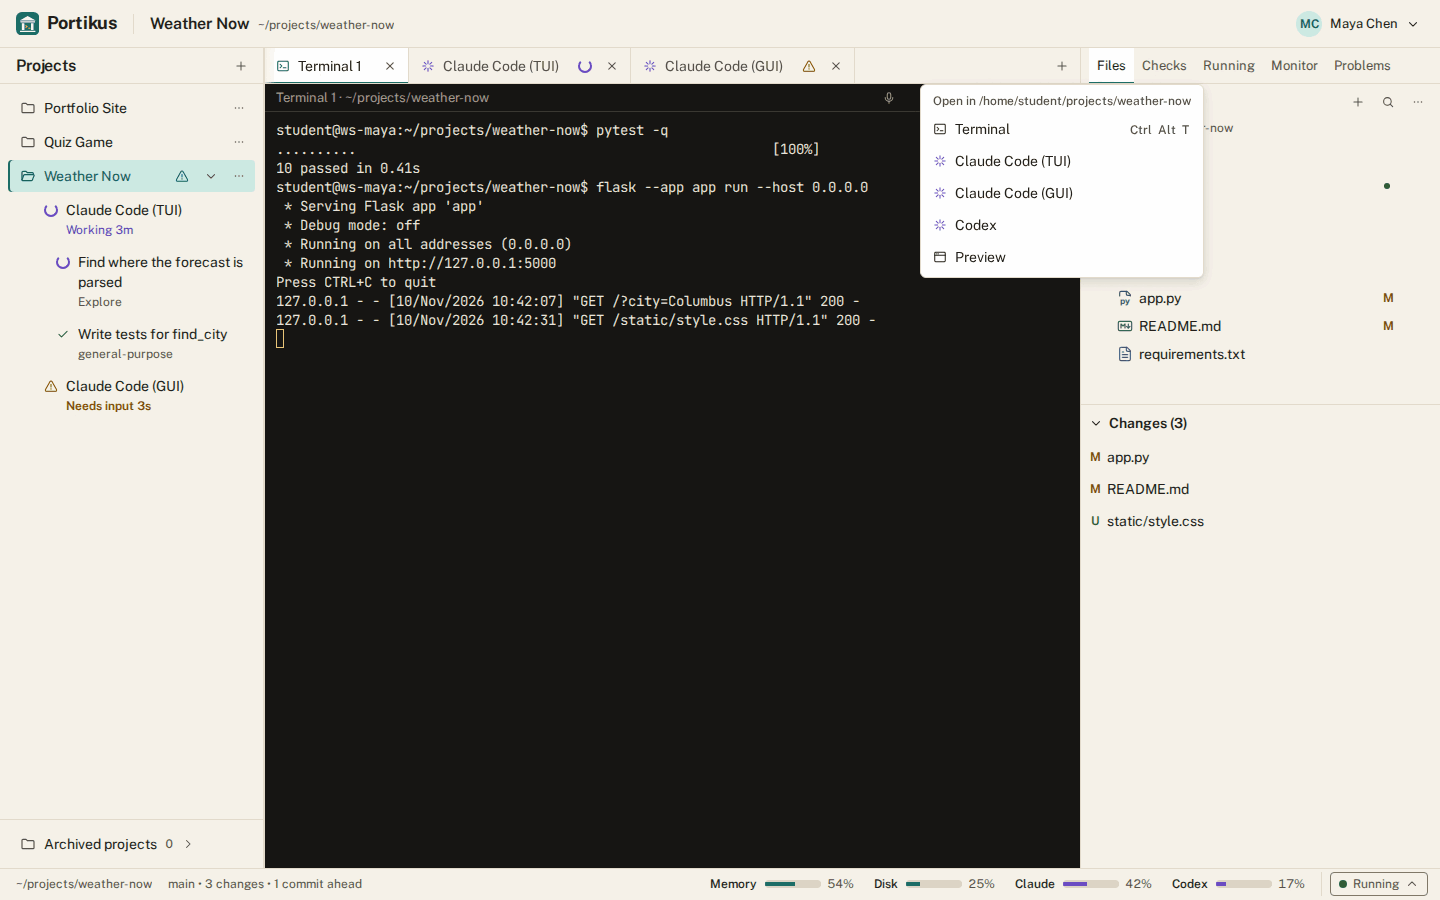
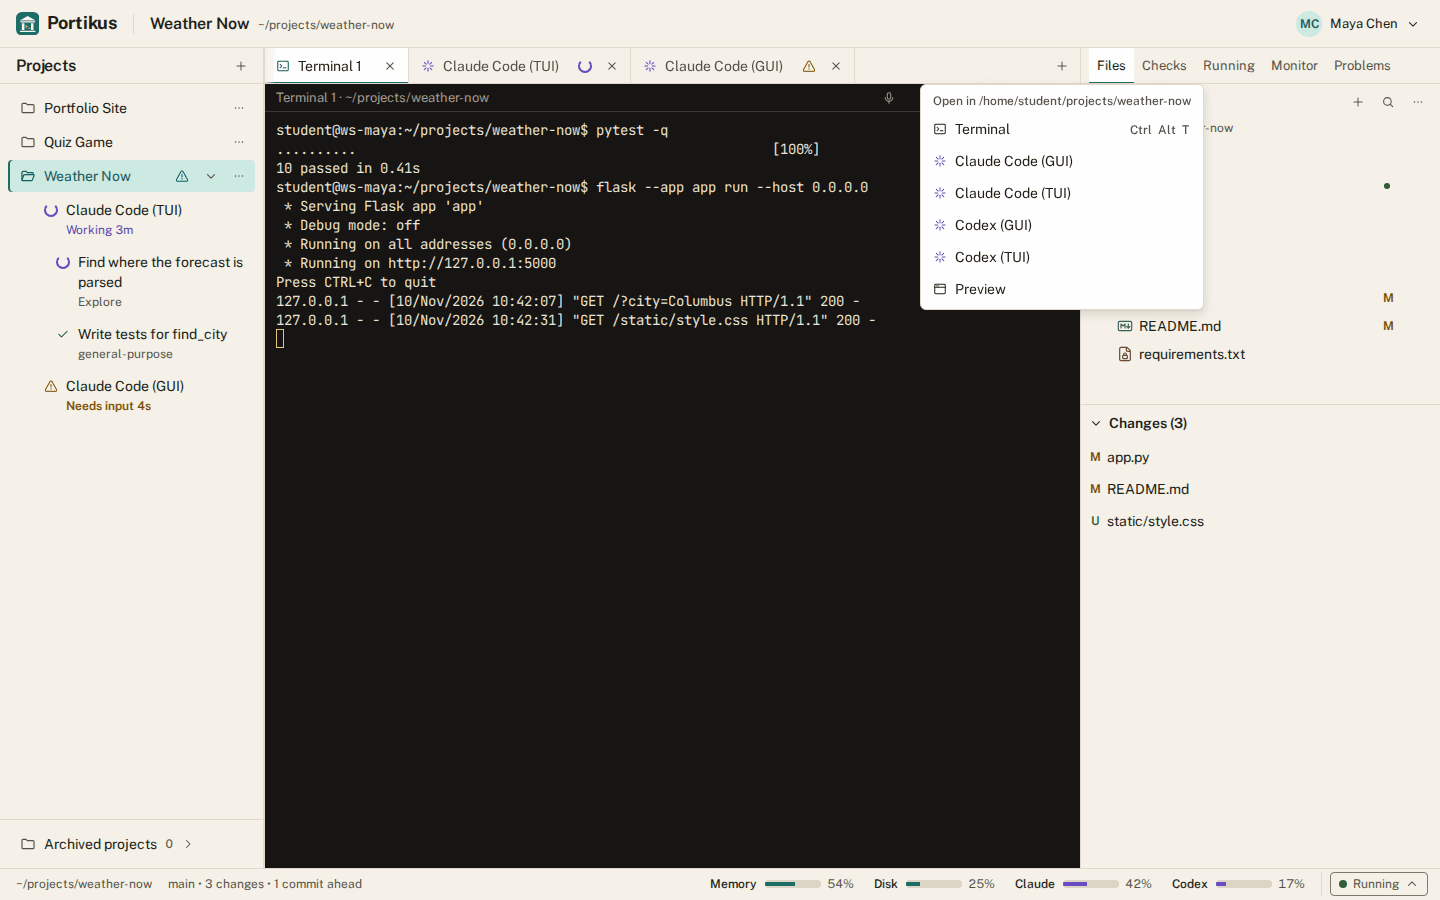
Epic 66 fold: a switch makes the agent-session recovery point; retake the New tab menu image with six choices

Changed region(s): [[0.625, 0.28, 0.8438, 0.3422], [0.7188, 0.1556, 0.75, 0.2178]]

diff --git a/docs/SPEC.md b/docs/SPEC.md
@@ -1414,7 +1414,7 @@ Added by Epic 66: skills, MCP and plugins for both agents. The student's own ski
 
 Added by Epic 66: subagents. Codex's collaboration tools draw as rows like Claude's Agent rows, and the subagent panel follows the child thread: it replays it, then follows its events live, keyed by the child thread id. The left pane's rows come from Codex's hooks (section 10.8), so they appear for Codex terminal and chat tabs alike.
 
-Added by Epic 66: switching agents in a chat. Choosing the other agent in the Agent picker swaps it in place after a warning, as a model change does ("Codex starts fresh with this conversation as context; the cache is lost"); an empty chat swaps with no warning, by replacing the tab. The swap is a handoff, because each agent keeps its own history, and the transcript shows a divider where it happened, kept on reattach and reload; the handoff text itself is hidden on replay. The browser asks the API (`PATCH` of the terminal's agent), never the chat socket: the relay drops an `agent.switch` message from a browser. The API calls the workspace agent, which asks the host to prepare the swap and then restarts the chat process in the same tmux session (`respawn-pane`) with the new agent's driver and only the new agent's institutional key (sections 10.6 and 24); the old key is removed from the session environment. A swap is refused while a reply, a card or a `!` command is running. From Claude to Codex, the earlier messages go into a new Codex thread through `thread/inject_items`. To Claude, they go in as text with the next prompt, and Claude resumes its own session whenever the tab has one, even in a chat that began on Codex, and then receives only the turns since it last spoke. Tool calls pass as a one-line summary and their output is never passed on. The oldest turns are dropped when the handoff would not fit half of the new agent's context window (200k tokens when the window is not yet known); the warning says the oldest turns may be left out and the divider gives the count. The tab keeps a session id for each agent, so swapping back resumes. `/clear` forgets the swap history. Nothing of the handoff is logged (STACK.md section 15).
+Added by Epic 66: switching agents in a chat. Choosing the other agent in the Agent picker swaps it in place after a warning, as a model change does ("Codex starts fresh with this conversation as context; the cache is lost"); an empty chat swaps with no warning, by replacing the tab. The swap is a handoff, because each agent keeps its own history, and the transcript shows a divider where it happened, kept on reattach and reload; the handoff text itself is hidden on replay. The browser asks the API (`PATCH` of the terminal's agent), never the chat socket: the relay drops an `agent.switch` message from a browser. The API calls the workspace agent, which asks the host to prepare the swap and then restarts the chat process in the same tmux session (`respawn-pane`) with the new agent's driver and only the new agent's institutional key (sections 10.6 and 24); the old key is removed from the session environment. A swap is refused while a reply, a card or a `!` command is running. Before the restart, a switch makes the `agent-session` recovery point, as launching an agent does (sections 15.6 and 15.10). From Claude to Codex, the earlier messages go into a new Codex thread through `thread/inject_items`. To Claude, they go in as text with the next prompt, and Claude resumes its own session whenever the tab has one, even in a chat that began on Codex, and then receives only the turns since it last spoke. Tool calls pass as a one-line summary and their output is never passed on. The oldest turns are dropped when the handoff would not fit half of the new agent's context window (200k tokens when the window is not yet known); the warning says the oldest turns may be left out and the divider gives the count. The tab keeps a session id for each agent, so swapping back resumes. `/clear` forgets the swap history. Nothing of the handoff is logged (STACK.md section 15).
 
 Added by Epic 66: what Codex cannot match, which Help says too. A question Codex asks in a terminal tab gets no browser question card, because Codex's hook can mark the tab but cannot hold the question open for an answer; the tab shows needs input (section 10.8) and the student answers in the terminal. "Allowed for this chat" grants live inside Codex and cannot be revoked from the rules list; a new chat clears them. The context meter shows tokens only, with no cache countdown, because Codex reports no cache timing. A project's MCP servers load only after the project is trusted in a terminal. Reasoning text stays hidden for both agents.
 

diff --git a/docs/STUDENT-GUIDE.md b/docs/STUDENT-GUIDE.md
@@ -43,19 +43,19 @@ The **+** at the end of the tab bar, named New tab, offers six choices.
 The first five open in the project's folder:
 
 - **Terminal**: a Linux shell.
-- **Claude Code (TUI)**: Claude Code in a terminal. TUI means text user
-  interface: the program draws itself with text.
 - **Claude Code (GUI)**: Claude Code as a chat tab, with formatted replies,
   buttons and pickers. GUI means graphical user interface.
-- **Codex (TUI)**: OpenAI's coding agent, in a terminal.
-- **Codex (GUI)**: Codex as a chat tab, like Claude Code (GUI).
+- **Claude Code (TUI)**: Claude Code in a terminal. TUI means text user
+  interface: the program draws itself with text.
+- **Codex (GUI)**: OpenAI's coding agent as a chat tab, like Claude Code (GUI).
+- **Codex (TUI)**: Codex in a terminal.
 - **Preview**: opens a web app that is running in your project in a tab
   inside Portikus.
 
 If your course uses the Traditional profile, it hides the Claude Code and
 Codex choices, and only **Terminal** and **Preview** are there.
 
-![The New tab menu: Terminal, Claude Code (TUI), Claude Code (GUI), Codex and Preview](images/student-new-tab-menu.png)
+![The New tab menu: Terminal, Claude Code (GUI), Claude Code (TUI), Codex (GUI), Codex (TUI) and Preview](images/student-new-tab-menu.png)
 
 ## The workspace layout
 

diff --git a/docs/adr/0076-codex-chat-and-the-chat-host-core.md b/docs/adr/0076-codex-chat-and-the-chat-host-core.md
@@ -114,6 +114,8 @@ Claude's protocol.
     inside one process. A browser cannot start a swap; the relay drops an
     `agent.switch` message from it, and only the API route starts one. A
     swap is refused while a reply, a card or a `!` command is running.
+    A switch makes the `agent-session` recovery point first, as launching
+    an agent does (SPEC.md sections 15.6 and 15.10).
     Claude to Codex: the messages go through `thread/inject_items` into a
     new thread. To Claude: as text with the next prompt, inside a marked
     block that the transcript hides on replay. Claude resumes its own
